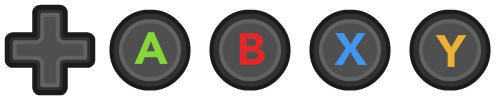
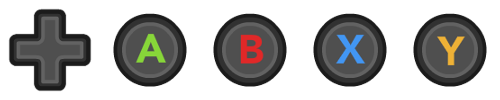
added gamepad buttons to gamescreen

Changed region(s): [[0.42, 0.09, 0.78, 0.93], [0.0, 0.03, 0.39, 0.96], [0.81, 0.09, 0.99, 0.93]]

diff --git a/Sokoban/SokobanGame/Screen/GameScreen.cs b/Sokoban/SokobanGame/Screen/GameScreen.cs
@@ -38,7 +38,7 @@ namespace SokobanGame.Screen
 
             animations = new Queue<MoveAnimation>();
             playerPos = map.Room.CurrentState.PlayerPosition.ToVector2();
-            
+
             CalcPositions();
         }
 
@@ -50,7 +50,7 @@ namespace SokobanGame.Screen
             int tileSize = (int)Math.Min(width / (float)(map.Width + 1), height / (float)(map.Height + 1));
 
             map.SetTileSize(Math.Min(tileSize, map.Tileset.TileWidth), Math.Min(tileSize, map.Tileset.TileHeight));
-            
+
             map.RenderOffset = new IntVec((width - map.PixelWidth) / 2, topPad + (height - map.PixelHeight) / 2);
         }
 
@@ -74,7 +74,7 @@ namespace SokobanGame.Screen
 
             int width = SokobanGame.Width;
             int height = SokobanGame.Height;
-            
+
             sb.DrawRect(0, 0, width, topPad, Colors.PadBackground);
             sb.DrawRect(0, height - botPad, width, botPad, Colors.PadBackground);
 
@@ -95,20 +95,25 @@ namespace SokobanGame.Screen
             r.Height = s * 2;
 
             sb.Draw(Assets.Keys, r, Assets.SrcEsc, Color.White);
-            sb.DrawString(font, "Go Back", new Vector2(r.Right, midTopPad), Colors.PadText, Align.MidLeft);
+            var tr = sb.DrawString(font, "Go Back", new Vector2(r.Right, midTopPad), Colors.PadText, Align.MidLeft);
+            r.X = tr.Right;
+            sb.Draw(Assets.PadBtns, r, Assets.SrcB, Color.White);
 
             sb.DrawString(font, lvlName, new Vector2(width * 0.5f, midTopPad), Colors.PadText, Align.Center);
 
             float midBotPad = height - botPad * 0.5f;
             s = botPad / 2 + 4;
-            
-            r.X = width / 2;
+
+            r.X = width / 2 - s;
             r.Y = (int)(midBotPad - s);
             r.Width = s * 2;
             r.Height = s * 2;
             sb.Draw(Assets.Keys, r, Assets.SrcR, Color.White);
-            var tr = sb.DrawString(font, "Reset", new Vector2(r.Right, midBotPad), Colors.PadText, Align.MidLeft);
-            var mr = sb.DrawString(font, "Move", new Vector2(r.X - 24, midBotPad), Colors.PadText, Align.MidRight);
+
+            tr = sb.DrawString(font, "Reset", new Vector2(r.Right, midBotPad), Colors.PadText, Align.MidLeft);
+            r.X = r.X - r.Width - 36;
+            sb.Draw(Assets.PadBtns, r, Assets.SrcDPad, Color.White);
+            var mr = sb.DrawString(font, "Move", new Vector2(r.X - 8, midBotPad), Colors.PadText, Align.MidRight);
 
             r.X = mr.X - r.Width;
             sb.Draw(Assets.Keys, r, Assets.SrcUp, Color.White);
@@ -119,9 +124,15 @@ namespace SokobanGame.Screen
             r.X = r.X - r.Width + 12;
             sb.Draw(Assets.Keys, r, Assets.SrcLeft, Color.White);
 
-            r.X = tr.Right + 24;
+            r.X = tr.Right;
+            sb.Draw(Assets.PadBtns, r, Assets.SrcY, Color.White);
+
+            r.X = r.Right + 36;
             sb.Draw(Assets.Keys, r, Assets.SrcZ, Color.White);
-            sb.DrawString(font, "Undo", new Vector2(r.Right, midBotPad), Colors.PadText, Align.MidLeft);
+            var ur = sb.DrawString(font, "Undo", new Vector2(r.Right, midBotPad), Colors.PadText, Align.MidLeft);
+            r.X = ur.Right;
+            sb.Draw(Assets.PadBtns, r, Assets.SrcX, Color.White);
+
             sb.End();
 
             if (!debugMode)
